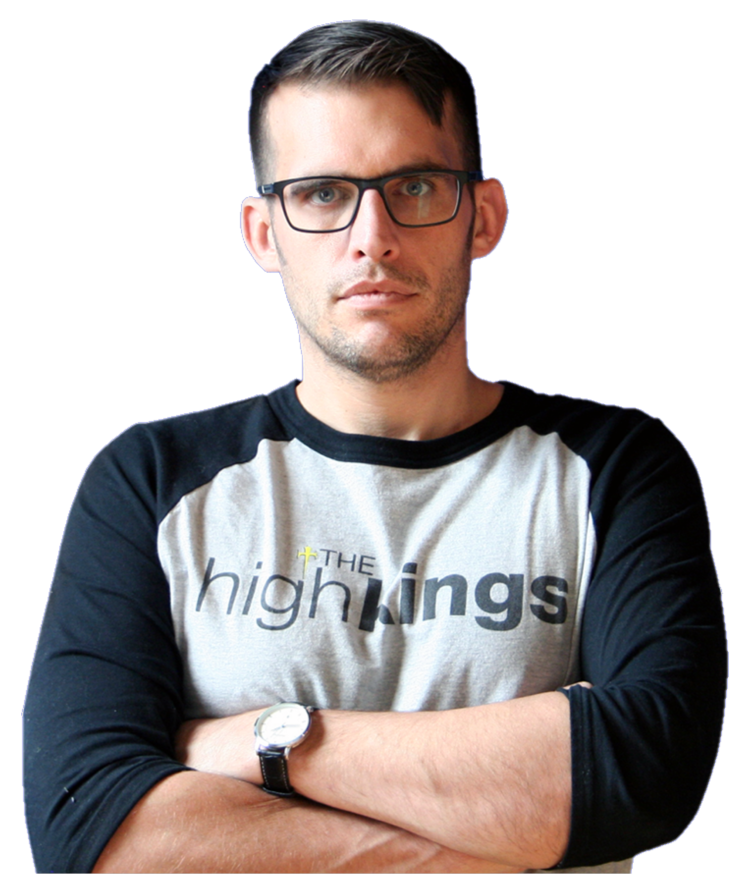
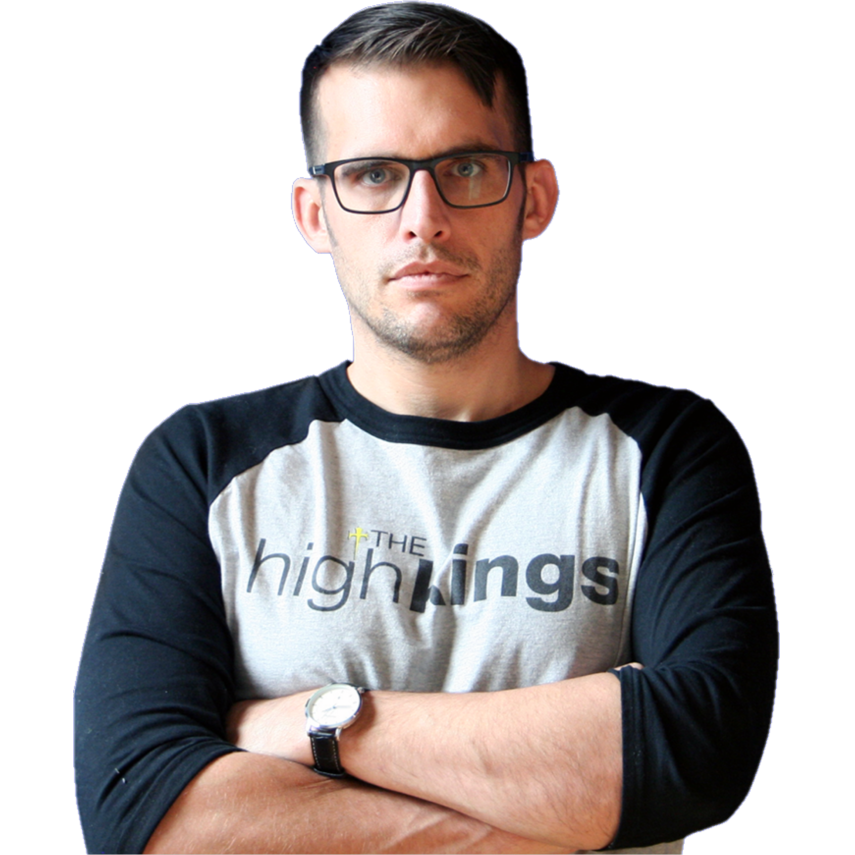
speaker image resizing to be 1:1 aspect ration and added clubhouse image

diff --git a/docs/css/main.css b/docs/css/main.css
@@ -1,54 +1,52 @@
 #bios {
-  background-color: white;
   border-radius: 10px;
   width: 90%;
   max-width: 1250px;
   margin: 3rem auto;
   display: flex;
-  flex-direction: row; }
+  flex-direction: row;
+  flex-wrap: wrap; }
   #bios .bio {
     position: relative;
     background: white;
-    border-radius: 10px;
-    width: 90%;
-    max-width: 1250px;
-    margin: 0 auto; }
+    border-radius: 5px;
+    width: 30%;
+    box-shadow: 2px 2px 2px 0 rgba(0, 0, 0, 0.4), 2px 2px 8px 4px rgba(0, 0, 0, 0.2);
+    margin: 10px; }
   #bios img {
-    width: 200px;
+    border-radius: 100%;
+    width: 90%;
+    max-width: 200px;
     position: relative;
-    margin: 2rem; }
+    margin: 2rem auto; }
     #bios img h4 {
       font-size: 2rem;
       padding: 1rem 0;
       margin: 1rem auto; }
     #bios img p {
       display: block; }
-  #bios .cfp {
-    background-color: #ddd;
-    width: 90%;
-    margin: 0 auto;
-    padding: 10px 0;
-    border-radius: 10px; }
-    #bios .cfp p, #bios .cfp h4, #bios .cfp a {
-      text-align: middle; }
-    #bios .cfp h4 {
-      font-size: 2rem;
-      line-height: 1.8;
-      margin-top: 0;
-      margin-bottom: .5rem; }
-    #bios .cfp a {
-      color: #424342; }
+
+.cfp {
+  background-color: #ddd;
+  width: 90%;
+  margin: 0 auto;
+  padding: 10px 0;
+  border-radius: 10px; }
+  .cfp p, .cfp h4, .cfp a {
+    text-align: middle; }
+  .cfp h4 {
+    font-size: 2rem;
+    line-height: 1.8;
+    margin-top: 0;
+    margin-bottom: .5rem; }
+  .cfp a {
+    color: #424342; }
   @media (max-width: 800px) {
-    #bios .bio {
+    .cfp .bio {
       text-align: center;
       padding: 2rem 0; }
-    #bios img, #bios .bioDescription {
-      width: 100%; }
-    #bios img {
-      margin: 0; }
-    #bios .bioDescription {
-      position: relative;
-      transform: translateY(0); } }
+    .cfp img {
+      width: 100%; } }
 
 html {
   font-size: 10px; }

diff --git a/src/sass/components/bios.sass b/src/sass/components/bios.sass
@@ -1,55 +1,48 @@
-// @import "../global/variables"
-
 #bios
-  background-color: white
   border-radius: 10px
   width: 90%
   max-width: 1250px
   margin: 3rem auto
   display: flex
   flex-direction: row
+  flex-wrap: wrap
   .bio
     position: relative
     background: white
-    border-radius: 10px
-    width: 90%
-    max-width: 1250px
-    margin: 0 auto
+    border-radius: 5px
+    width: 30%
+    box-shadow: 2px 2px 2px 0 rgba(0, 0, 0, 0.4), 2px 2px 8px 4px rgba(0, 0, 0, 0.2)
+    margin: 10px
   img
-    // border: 2px solid black
-    width: 200px
+    border-radius: 100%
+    width: 90%
+    max-width: 200px
     position: relative
-    margin: 2rem
+    margin: 2rem auto
     h4
       font-size: 2rem 
       padding: 1rem 0
       margin: 1rem auto
     p
       display: block
-  .cfp
-    background-color: #ddd
-    width: 90%
-    margin: 0 auto
-    padding: 10px 0
-    border-radius: 10px
-    p, h4, a
-      text-align: middle
-    h4
-      font-size: 2rem
-      line-height: 1.8
-      margin-top: 0
-      margin-bottom: .5rem
-    a
-      color: $primary-gray
+.cfp
+  background-color: #ddd
+  width: 90%
+  margin: 0 auto
+  padding: 10px 0
+  border-radius: 10px
+  p, h4, a
+    text-align: middle
+  h4
+    font-size: 2rem
+    line-height: 1.8
+    margin-top: 0
+    margin-bottom: .5rem
+  a
+    color: $primary-gray
   @media(max-width: 800px)
     .bio
         text-align: center
         padding: 2rem 0
-    img, .bioDescription
-      width: 100%
     img
-      margin: 0
-    .bioDescription
-      position: relative
-      transform: translateY(0)
-  // @media(min-width: 900px)
+      width: 100%

diff --git a/docs/index.html b/docs/index.html
@@ -14,8 +14,8 @@
   <meta name="google-site-verification" content="6kUjhvEiJXYvAHEbR88rpfXohyc23GlOoXzcgnWAqcU" />
   <title>Southern Dev</title>
   <meta name="viewport" content="width=device-width, initial-scale=1">
-  <link rel="stylesheet" href="css/base.css">
-  <link rel="stylesheet" type="text/css" media="screen" href="css/main.css" />
+  <link rel="stylesheet" type="text/css" href="css/base.css">
+  <link rel="stylesheet" type="text/css" href="css/main.css" />
   <script src="js/speakers.js"></script>
   <script src="js/main.js"></script>
   <!-- <script defer src="https://use.fontawesome.com/releases/v5.6.3/js/all.js" integrity="sha384-EIHISlAOj4zgYieurP0SdoiBYfGJKkgWedPHH4jCzpCXLmzVsw1ouK59MuUtP4a1"

diff --git a/src/index.html b/src/index.html
@@ -14,8 +14,8 @@
   <meta name="google-site-verification" content="6kUjhvEiJXYvAHEbR88rpfXohyc23GlOoXzcgnWAqcU" />
   <title>Southern Dev</title>
   <meta name="viewport" content="width=device-width, initial-scale=1">
-  <link rel="stylesheet" href="css/base.css">
-  <link rel="stylesheet" type="text/css" media="screen" href="css/main.css" />
+  <link rel="stylesheet" type="text/css" href="css/base.css">
+  <link rel="stylesheet" type="text/css" href="css/main.css" />
   <script src="js/speakers.js"></script>
   <script src="js/main.js"></script>
   <!-- <script defer src="https://use.fontawesome.com/releases/v5.6.3/js/all.js" integrity="sha384-EIHISlAOj4zgYieurP0SdoiBYfGJKkgWedPHH4jCzpCXLmzVsw1ouK59MuUtP4a1"

diff --git a/src/js/main.js b/src/js/main.js
@@ -140,7 +140,7 @@ window.onload = function () {
     // 4. Assign HTML Context
       bio.appendChild(imgTemplate);
       bio.appendChild(nameTemplate);
-      bio.appendChild(bioShortTemplate);
+      // bio.appendChild(bioShortTemplate);
 
     // 5. Attach to Document
     var bios = document.getElementById("bios");

diff --git a/docs/js/main.js b/docs/js/main.js
@@ -137,7 +137,7 @@ window.onload = function () {
     // 4. Assign HTML Context
     bio.appendChild(imgTemplate);
     bio.appendChild(nameTemplate);
-    bio.appendChild(bioShortTemplate);
+    // bio.appendChild(bioShortTemplate);
 
     // 5. Attach to Document
     var bios = document.getElementById("bios");
